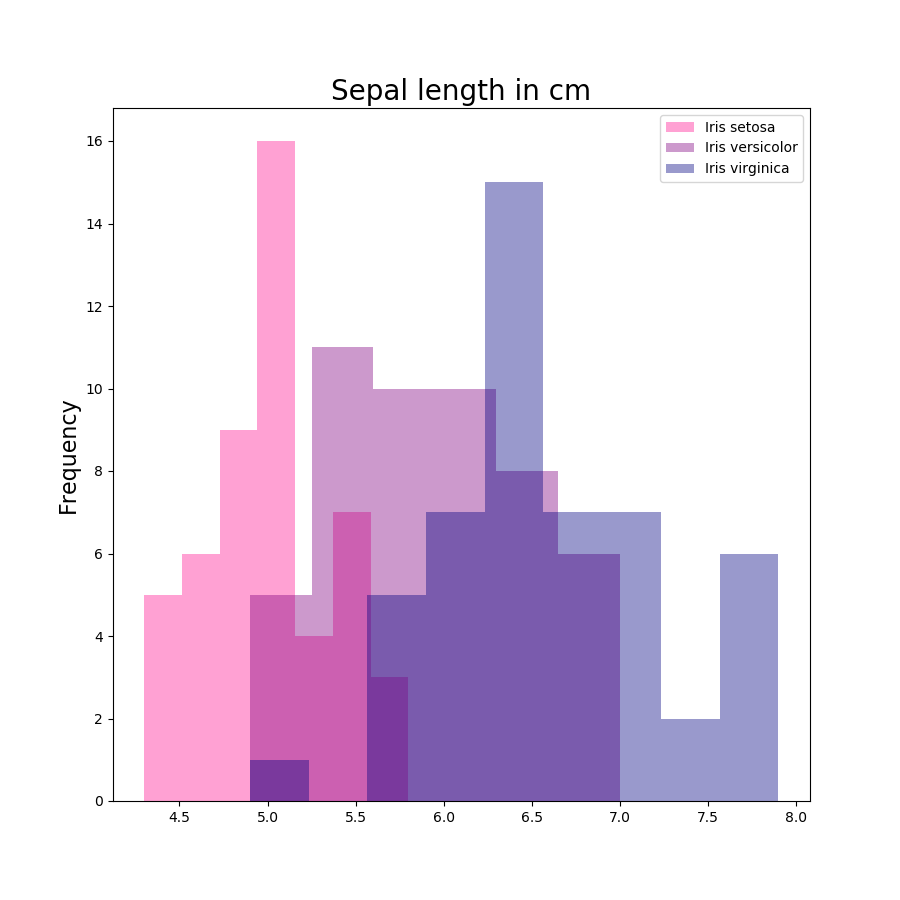
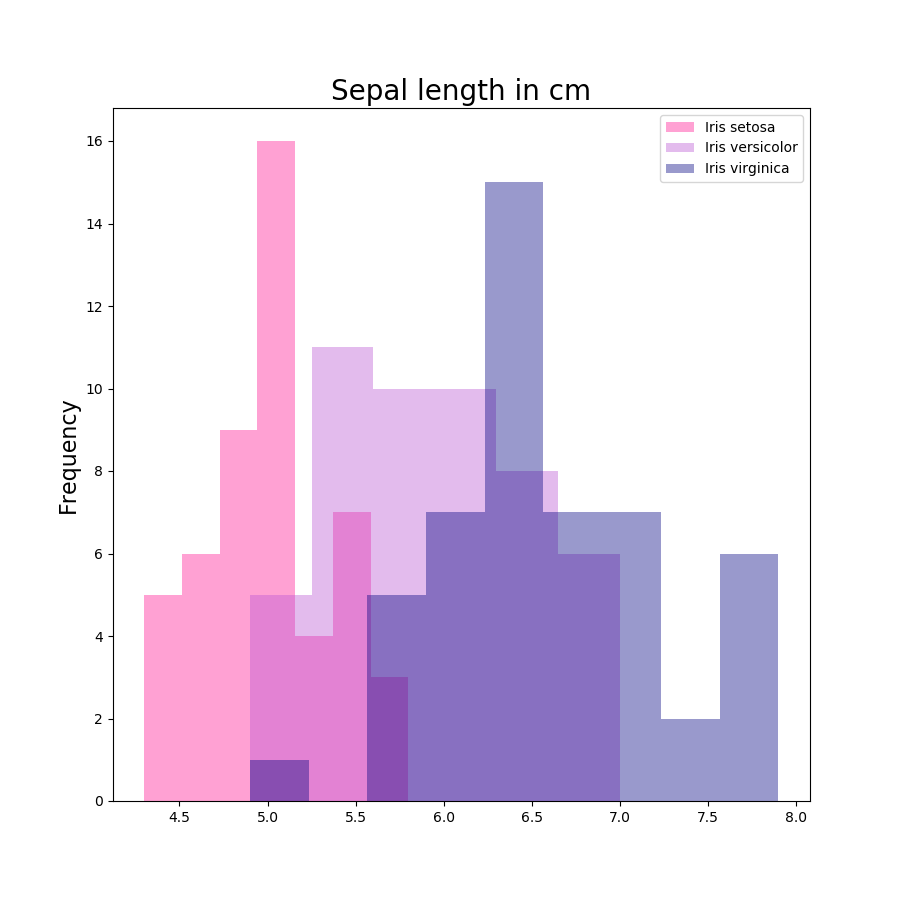
Update of all the files

Changed region(s): [[0.28, 0.3733, 0.56, 0.9022], [0.5911, 0.5289, 0.6222, 0.5911], [0.7467, 0.1556, 0.7778, 0.1867]]

diff --git a/analysis.py b/analysis.py
@@ -96,7 +96,6 @@ def petal_width_hist():
 
 # function for uniting all the functions for creating histograms
 def histograms():
-   
     sepal_length_hist()
     sepal_width_hist()
     petal_length_hist()
@@ -134,10 +133,13 @@ def scatterplots():
     sepal_length_width_scat()
     petal_length_width_scat()
 
+# function for plotting pairplot
 def pairplot():
     sns.pairplot(ifds, hue = "Species", diag_kind = "hist", palette = ["deeppink","mediumorchid","navy"])
     plt.savefig("Iris-dataset-pairplot.png")
     plt.show()
+
+
 # main part of the code
 
 # index_col = "Id" was used to make the Id column an index column
@@ -145,12 +147,12 @@ def pairplot():
 
 ifds = pd.read_csv("Iris_dataset.csv", index_col = "Id")
 
-#summary_to_file()
+summary_to_file()
 
 iris_s = ifds[ifds.Species == "Iris-setosa"]
 iris_vers = ifds[ifds.Species == "Iris-versicolor"]
 iris_virg = ifds[ifds.Species == "Iris-virginica"]
 
-#histograms()
-# scatterplots()
+histograms()
+scatterplots()
 pairplot()

diff --git a/README.md b/README.md
@@ -1,6 +1,6 @@
 # Programming and scripting project 2020
 
-This repository is used for the final project given during the Programming and scripting module on Higher Diploma in Data Analytics course from GMIT.
+This repository is used for the final project given during the Programming and scripting module on Higher Diploma in Data Analytics course from GMIT. Topic of the project is research and investigation of IFisher's ris dataset.
 
 Detailed project description can be found on [GitHub](https://github.com/ianmcloughlin/project-pands-2020/blob/master/project.pdf) from the lecturer Ian McLoughlin.
 
@@ -36,7 +36,7 @@ In this article, Fisher developed and evaluated a linear function to differentia
 
 Iris flower difference in species is pictured below. [02]
 
-![alt text](https://github.com/sandraelekes/pands-project-2020/blob/master/iris-species.png "Iris flower species")
+<img src = "https://github.com/sandraelekes/pands-project-2020/blob/master/iris-species.png" alt= "Iris flower species">
 
 
 ## **Iris dataset file**
@@ -70,13 +70,10 @@ In this section is explanation of the code for the imported libraries, dataset i
 ```
 ***NumPy*** is a Python library that provides a multidimensional array object, various derived objects (such as masked arrays and matrices), and an assortment of routines for fast operations on arrays, including mathematical, logical, shape manipulation, sorting, selecting, I/O, discrete Fourier transforms, basic linear algebra, basic statistical operations, random simulation and much more.\
 Shorter definition is thah *NumPy* is the fundamental package for scientific computing in Python. [04]\
-Geeksforgeeks. com has an interesting two part tutorial on *NumPy* referenced in [Worthy mentions](#worthy-mentions).
 
 
 ***pandas*** is a Python package for data science; it offers data structures for data manipulation and analysis. [05]\
 In this project *pandas* is used for creating a summary of the dataset from a .csv file.\
-More useful information about *pandas* can be found on [Towards data science](https://towardsdatascience.com/a-quick-introduction-to-the-pandas-python-library-f1b678f34673), [Real python.com](https://realpython.com/pandas-dataframe/) and [Pandas.pydata.org](https://pandas.pydata.org/docs/#).
-
 
 ***Matplotlib*** is a comprehensive visualisation library in Python, built on NumPy arrays, for creating static, animated and interactive 2D plots or arrays. [06] [07]\
 *matplotlib.pyplot* is a state-based interface to *matplotlib*. It provides a MATLAB-like way of plotting. *pyplot* is mainly intended for interactive plots and simple cases of programmatic plot generation. [08]
@@ -86,8 +83,8 @@ Working with DataFrames is a bit easier with the Seaborn because the plotting fu
 [Elite data science](https://elitedatascience.com/python-seaborn-tutorial) has interesting tutorial on *seaborn* presented on a famous Pokemon cartoon based dataset.
 
 ***sys*** module represents system-specific parameters and functions and provides access to some variables used or maintained by the interpreter and to functions that interact strongly with the interpreter. [11]
-Interesting tutorial on *sys* can be found on [Python programming](https://pythonprogramming.net/sys-module-python-3/) and [Data Flair](https://data-flair.training/blogs/python-sys-module/).
 
+Interesting tutorials for working with these libraries can be found on [Worthy mentions](#worthy-mentions).
 
 ### **Libraries cheat sheets**
 
@@ -101,10 +98,10 @@ List of usefull cheat sheets for libraries used in this project:
 ## **Dataset import**
 
 ```python
-    ifds = pd.read_csv("Iris_dataset.csv", index_col="Id")
+    ifds = pd.read_csv("Iris_dataset.csv", index_col = "Id")
 ```
 This line of code is used for reading the .csv file into DataFrame and storing it as a variable *ifds* (iris flower dataset) for further analysis and manipulation.\
-Since *pandas* is using zero-based integer indices in the DataFrame,  *index_col="Id"* was used to make the Id column an index column while reading the file. That means that the index column will not be taken into consideration while analysing the data. [12]
+Since *pandas* is using zero-based integer indices in the DataFrame,  *index_col = "Id"* was used to make the Id column an index column while reading the file. That means that the index column will not be taken into consideration while analysing the data. [12]
 
 ## **Dataset summary**
 
@@ -281,17 +278,16 @@ Circle style marker with an edgecolor is chosen for neater look. [29] [30]
 
 ## **Pairplot**
 
-<img src = "https://github.com/sandraelekes/pands-project-2020/blob/master/Iris-dataset-pairplot.png" alt = "Iris dataset pairplot">
+Pairplot gives the better comparison and observation of the data and provides enough informations to draw conclusions.
 
-Pairplot gives the better comparison and observation of the data and provides enough informations to draw conclusions. 
+<img src = "https://github.com/sandraelekes/pands-project-2020/blob/master/Iris-dataset-pairplot.png" alt = "Iris dataset pairplot">
 
 
 ### **Pairplot code**
 
 ```python
     def pairplot():
-        sns.pairplot(ifds, hue = "Species", diag_kind = "hist", 
-        palette = ["deeppink","mediumorchid","navy"])
+        sns.pairplot(ifds, hue = "Species", diag_kind = "hist", palette = ["deeppink","mediumorchid","navy"])
         plt.savefig("Iris-dataset-pairplot.png")
         plt.show()
 ```
@@ -299,10 +295,10 @@ Pairplot is used for plotting pairwise relationships in datasets. The default di
 
 Because there is 4 different variables (SepalLengthCm, SepalWidthCm, PetalLengthCm, PetalWidthCm) 4x4 plot is created.
 
-# Conclusion
+# **Conclusion**
 
 Even though it has the widest sepals of all three species, Iris setosa is the smallest flower.\
-If comparing by sepal width and length, Iris versicolor and Iris virginica would not be distinguished easy.\
+If compared by sepal width and length, Iris versicolor and Iris virginica would not be distinguished easy.\
 But observing the petal length and width, and petal and sepal ratios the difference is noticed, with Iris virginica being the biggest of the flowers.
 
 
@@ -381,3 +377,4 @@ This is the list of sources that have not been used in analysis or summary of th
 * https://rajritvikblog.wordpress.com/2017/06/29/iris-dataset-analysis-python/
 * https://www.kaggle.com/abhishekkrg/python-iris-data-visualization-and-explanation
 * https://www.kaggle.com/aschakra/iris-data-visualization-using-python
+* https://www.kaggle.com/search?q=iris+dataset+analysis
